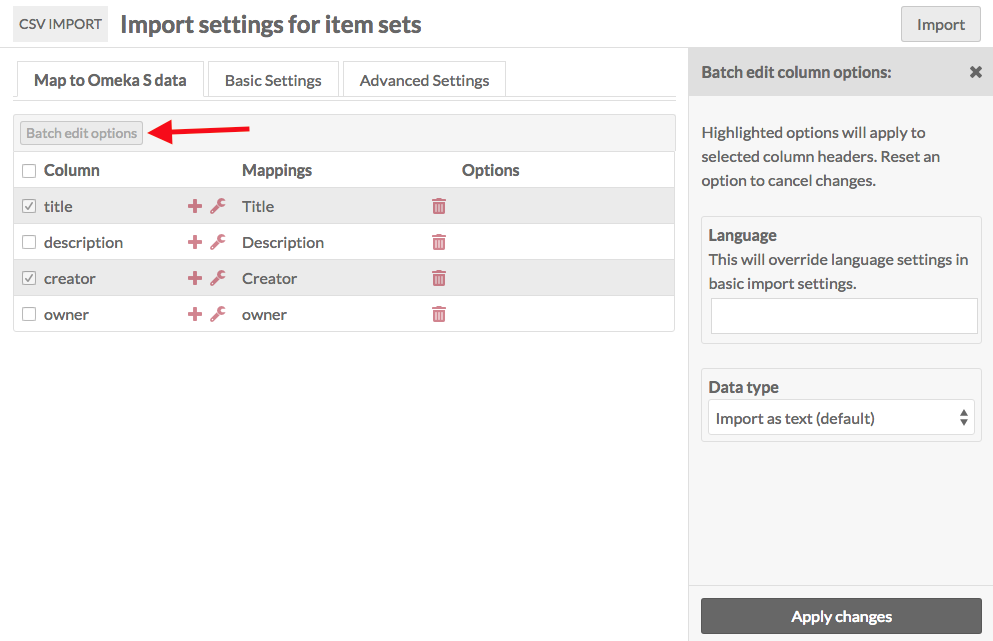
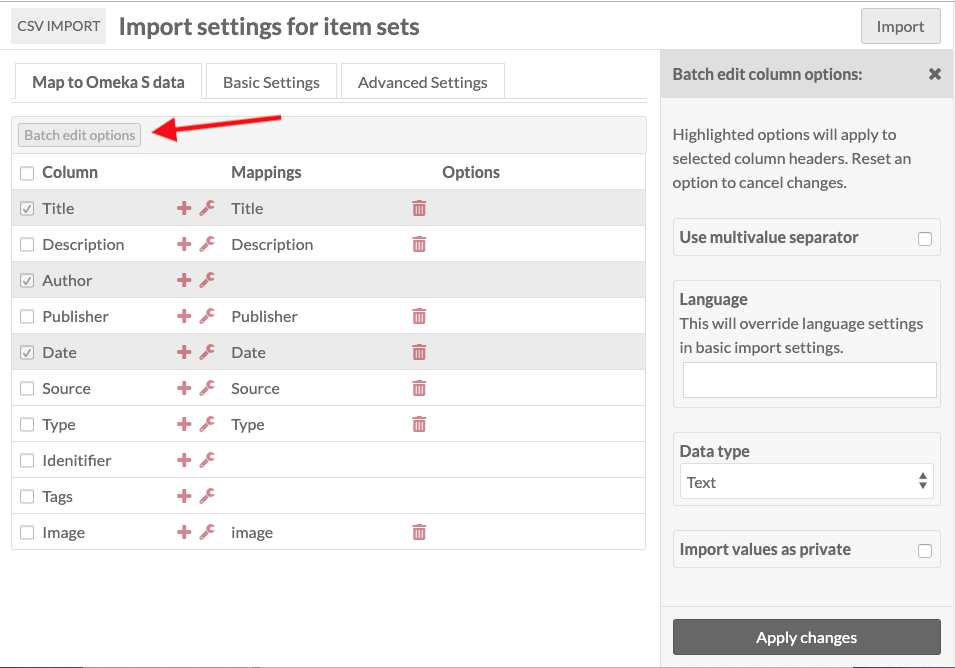
Item sets updates
Updating item sets with new features/options

diff --git a/docs/modules/csvimport.md b/docs/modules/csvimport.md
@@ -93,9 +93,11 @@ The drawer has multiple options for mapping:
 
 **Properties** select a property to map the column data to, from any of the installed vocabularies. Use the Filter field to search the available properties for a specific property.
 
+![Properties option open showing all of the installed vocabularies for the Omeka S installation: Dublin Core, Bibliographic Ontology, Friend of a Friend, Scripto and OWL-Time Ontology.](../modules/modulesfiles/csvimport_itemsMapProp.png)
+
 **Item-specific data** has a dropdown to set Item Set by selected property. If you have a column with data for an Item Set to which you want to add the item, you can set how it maps using this dropdown. You can either use the Item Set's internal ID, or any one of its properties (title, description).
 
-![dropdown as described](../modules/modulesfiles/csvimport_itemsMapRD.png)
+![dropdown as described](../modules/modulesfiles/csvimport_itemsMapISD.png)
 
 **Generic data** also has a dropdown where you can set one of four options:
 
@@ -133,7 +135,7 @@ This will open a drawer on the right side of the browser window with the followi
 
 - **Use multivalve separator:** check this box to use the multivalue separator for data in this column. You set the multivalue separator in the initial import page, but you can change it in the Basic Settings tab.  
 - **Language:** is a field where you can set the language for this column using the [IETF Language tag](https://en.wikipedia.org/wiki/IETF_language_tag) for the language in which the text is written. This will override what you have entered in basic settings. 
-- **Data type:** is a dropdown with three options, which correspond to the [values](../content/items/#values) one can use when adding properties to an item:
+- **Data type:** is a dropdown with at least three options, which correspond to the [values](../content/items/#values) one can use when adding properties to an item:
 	- Import as text (default).
 	- Import as URL reference. You can set the label for the URI by including the desired text after a space, for example:  `http://example.com This Is The Label`
 	- Import as Omeka S resource ID. Note that you must have the correct ID for the resource. A resources' ID is the number sequence at the end of the url when on the view or edit page, so for `/admin/item/11576` the ID is 11576.
@@ -147,7 +149,7 @@ Be sure to click the Apply Changes button at the bottom of the drawer in order t
 To remove a column option setting, click the wrench icon again and undo your changes manually.
 
 #### Batch edit
-When you select one or more rows in the table (columns from your csv file), you can use the "Batch edit options" button to apply the column options described above - multivalue separator, language, and data type - to multiple csv columns at once. 
+When you select one or more rows in the table (columns from your csv file), you can use the "Batch edit options" button to apply the column options described above - multivalue separator, language, data type, and property privacy - to multiple csv columns at once. 
 
 ![a screenshot of the Mapping tab, with the boxes for Columns Title and Creator checked. A red arrow points to the Batch edit options button. On the right side of the screen, a drawer offers options for changing the settings as described](../modules/modulesfiles/csvimport_batchEditItems.png)
 
@@ -227,9 +229,13 @@ To map a column header to a vocabulary property, click on the plus symbol button
 
 The drawer has multiple options for mapping:
 
-**Resource data** has a checkbox for "Open to additions." Check to allow other users to edit or add to the item set. Leave unchecked to have the item set be editable only by its creator, site admins, and global admins.
+**Properties** select a property to map the column data to, from any of the installed vocabularies. Use the Filter field to search the available properties for a specific property.
 
-![Add mapping drawer showing the section "Resource data". Below the resource data header is a single, unselected checkbox option labeled "Open to additions".](../modules/modulesfiles/csvimport_itemSetRD.png)
+![Properties option open showing all of the installed vocabularies for the Omeka S installation: Dublin Core, Bibliographic Ontology, Friend of a Friend, Scripto and OWL-Time Ontology.](../modules/modulesfiles/csvimport_itemsMapProp.png)
+
+**Item set-specific data** is a checkbox for "Open to additions." Check to allow other users to edit or add to the item set. Leave unchecked to have the item set be editable only by its creator, site admins, and global admins.
+
+![Add mapping drawer showing the section "Item set-specific data". Below the section header is a single, unselected checkbox option labeled "Open to additions".](../modules/modulesfiles/csvimport_itemSetSD.png)
 
 **Generic data** also has a dropdown where you can set one of four options:
 
@@ -239,8 +245,6 @@ The drawer has multiple options for mapping:
 - *Visibility public/private:* set the visibility of the item set. Use "private" or "public" in the spreadsheet. 
 
 ![Dropdown as described](../modules/modulesfiles/csvimport_itemsMapgeneric.png)
-
-**Properties** select a property to map the column data to, from any of the installed vocabularies. Use the Filter field to search the available properties for a specific property.
 
 Be sure to click the "Apply Changes" at the bottom of the drawer or nothing you set here will be kept.
 
@@ -258,17 +262,19 @@ Column options are in addition to mappings. If you add options without also mapp
 This will open a drawer on the right side of the browser window with the following options: 
 
 - **Language:** is a field where you can set the language for this column using the [IETF Language tag](https://en.wikipedia.org/wiki/IETF_language_tag) for the language in which the text is written. This will override what you have entered in basic settings. 
-- **Data type:** is a dropdown with three options, which correspond to the [values](../content/items/#values) one can use when adding properties to an item:
+- **Data type:** is a dropdown with at least three options, which correspond to the [values](../content/items/#values) one can use when adding properties to an item:
 	- Import as text (default);
 	- Import as URL reference;
-	- Import as Omeka S resource ID. Note that you must have the correct ID for the resource. A resources' ID is the number sequence at the end of the url when on the view or edit page, so for `/admin/item/11576` the ID is 11576
+	- Import as Omeka S resource ID. Note that you must have the correct ID for the resource. A resources' ID is the number sequence at the end of the url when on the view or edit page, so for `/admin/item/11576` the ID is 11576.
+	- If you have certain modules installed, such as Numeric Data Types, there may be additional data type options supplied by those modules.
+- **Import values as private**: check this box to set all property values *in this column* private.
 
 ![drawer with options as described above](../modules/modulesfiles/csvimport_ItemSetCol.png)
 
 To remove a column option setting, click the wrench icon again and undo your changes manually.
 
 #### Batch edit
-When you select one or more rows in the table (columns from your csv file), you can use the "Batch edit options" button to apply the column options described above - language, and data type - to multiple csv columns at once. 
+When you select one or more rows in the table (columns from your csv file), you can use the "Batch edit options" button to apply the column options described above to multiple csv columns at once. 
 
 ![a screenshot of the Mapping tab, with the boxes for Columns Title and Creator checked. A red arrow points to the Batch edit options button. On the right side of the screen, a drawer offers options for changing the settings as described](../modules/modulesfiles/csvimport_batchEditItemSet.png)
 
